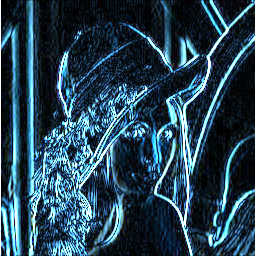
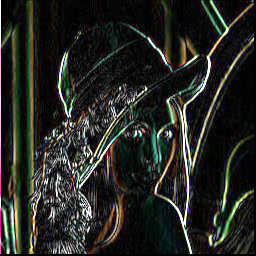
fixed error

diff --git a/index.js b/index.js
@@ -63,7 +63,9 @@ const getMatrix = (...agrs) => {
 const convolution = (image, kernel) => {
   const width = image[0].length - 2;
   const height = image.length - 2;
-  const newImage = getMatrix(width, height, 4);
+
+  const newImage = getMatrix(height, width, 4);
+
   /**
    * 两个矩阵块相乘
    * @param {*} kernel 卷积核
@@ -72,11 +74,11 @@ const convolution = (image, kernel) => {
    * @param {*} y 当前位置y
    */
   const calc = (kernel, matrix, x, y) => {
-    let sum = 0;
     const length = kernel.length;
-    for (let k = 0; k < length; k++) {
+    for (let k = 0; k < 3; k++) {
+      let sum = 0;
       for (let i = 0; i < length; i++)
-        for (let j = 0; j < 3; j++) {
+        for (let j = 0; j < length; j++) {
           sum += (kernel[length - i - 1][length - j - 1] * matrix[x + i + -1][y + j + -1][k]);
         }
       newImage[x - 1][y - 1][k] = Math.abs(sum || 0);
@@ -85,9 +87,9 @@ const convolution = (image, kernel) => {
   };
 
   // 开始卷积图像
-  for (let i = 1; i < width + 1; i++) {
-    for (let j = 1; j < height + 1; j++) {
-      calc(kernel, image, i, j);
+  for (let i = 1; i < width - 1; i++) {
+    for (let j = 1; j < height - 1; j++) {
+      calc(kernel, image, j, i);
     }
   }
   return newImage;
